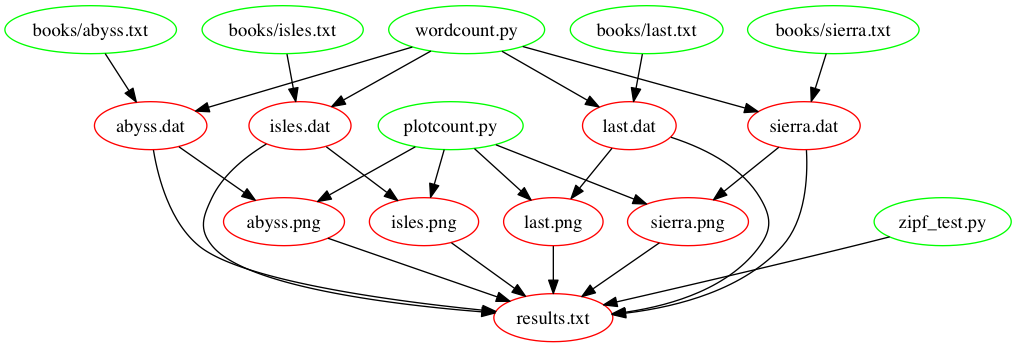
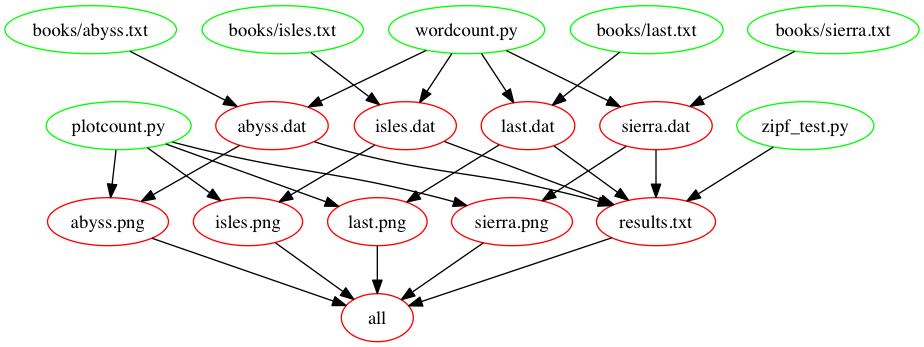
Adressing comments
* fix typos etc
* in 08-conclusion, moved PNG files as dependency of 'results.txt'
  to the 'all' target instead; this required to have the final
  make command be 'make' (or 'make all') instead of 'make results.txt'

diff --git a/solutions.md b/solutions.md
@@ -138,27 +138,42 @@ clean :
 * * *
 3. only `last.dat` and `results.txt` are recreated
 
-'Follow' the decency tree to understand the answer(s).
+'Follow' the dependency tree to understand the answer(s).
 
-> ## `workcloud.py` as dependency of `results.txt` {.challenge}
+> ## `wordcount.py` as dependency of `results.txt` {.challenge}
 >
-> What would happen if you actually added `workcloud.py` as dependency of `results.txt`, and why?
+> What would happen if you actually added `wordcount.py` as dependency of `results.txt`, and why?
 
-`workcloud.py` becomes a part of `$^`, thus the command becomes
+If you change the rule for the `results.txt` file like this:
 
-~~~ {.bash}
-python zipf_test.py abyss.dat isles.dat last.dat workcloud.py > results.txt
+~~~ {.make}
+results.txt : *.dat wordcount.py
+        python zipf_test.py $^ > $@
 ~~~
 
-This results in an error from `zipf_test.py` as it tries to parse the script:
+`wordcount.py` becomes a part of `$^`, thus the command becomes
+
+~~~ {.bash}
+python zipf_test.py abyss.dat isles.dat last.dat wordcount.py > results.txt
+~~~
+
+This results in an error from `zipf_test.py` as it tries to parse the script as if it were a `.dat` file. Try this by running:
+
+~~~ {.bash}
+$ make results.txt
+~~~
+
+You'll get
 
 ~~~ {.output}
+python zipf_test.py abyss.dat isles.dat last.dat wordcount.py > results.txt
 Traceback (most recent call last):
   File "zipf_test.py", line 19, in <module>
     counts = load_word_counts(input_file)
-  File "path/to/wordcount.py", line 35, in load_word_counts
-    with open(filename, "r") as input_fd:
-IOError: [Errno 2] No such file or directory: 'workcloud.py'
+  File "path/to/wordcount.py", line 39, in load_word_counts
+    counts.append((fields[0], int(fields[1]), float(fields[2])))
+IndexError: list index out of range
+make: *** [results.txt] Error 1
 ~~~
 
 
@@ -201,7 +216,7 @@ clean :
 > Add new rules, update existing rules, and add new macros to:
 > 
 > * Create `.png` files from `.dat` files using `plotcount.py`.
-> * Add the script and `.png` files to the archive.
+> * Add the script and `.png` files as dependencies of the `results.txt` file to make sure they are (re)created when needed.
 > * Remove all auto-generated files (`.dat`, `.png`,
 >   `results.txt`). 
 >

diff --git a/08-conclusion.md b/08-conclusion.md
@@ -32,8 +32,9 @@ papers.
 > * Remove all auto-generated files (`.dat`, `.png`,
 >   `results.txt`). 
 >
-> Finally, many Makefiles define a default [phony target](reference.html#phony-target) called `all` that will build what the Makefile has been written to build (e.g. in our case, `results.txt`). As others may assume your Makefile confirms to convention and supports an `all` target, add an `all` target to your Makefile (Hint: this rule has a single dependency but no actions).
+> Finally, many Makefiles define a default [phony target](reference.html#phony-target) called `all` that will build what the Makefile has been written to build (e.g. in our case, the `.png` files and the `results.txt` file). As others may assume your Makefile confirms to convention and supports an `all` target, add an `all` target to your Makefile (Hint: this rule has dependencies but no actions).
+> With that in place, instead of running `make results.txt`, you should now just run `make`. By default, `make` runs the first target it finds in the Makefile, in this case your new `all` target.
 
-The following figure shows the dependencies involved in building the `results.txt` target, once we've added support for images:
+The following figure shows the dependencies involved in building the `all` target, once we've added support for images:
 
 ![results.txt dependencies once images have been added](img/08-conclusion-challenge.png "results.txt dependencies once images have been added")

diff --git a/03-variables.md b/03-variables.md
@@ -53,15 +53,14 @@ Makefile but forget to rename it elsewhere.
 
 Let us set about removing some of the repetition from our Makefile.
 
-In our `results.txt` rule we duplicate the data file names and the
-archive name:
+In our `results.txt` rule we duplicate the data file names and the name of the results file name:
 
 ~~~ {.make}
 results.txt : isles.dat abyss.dat last.dat
         python zipf_test.py abyss.dat isles.dat last.dat > results.txt
 ~~~
 
-Looking at the archive name first, we can replace it in the action
+Looking at the results file name first, we can replace it in the action
 with `$@`:
 
 ~~~ {.make}
@@ -155,8 +154,7 @@ $ make results.txt
 
 As we saw, `$^` means 'all the dependencies of the current
 rule'. This works well for `results.txt` as its action
-treats all the dependencies the same - as the contents of the
-archive.
+treats all the dependencies the same - as the input for the `zipf_test.py` script.
 
 However, for some rules, we may want to treat the first dependency
 differently. For example, our rules for `.dat` use their first (and

diff --git a/04-dependencies.md b/04-dependencies.md
@@ -122,9 +122,9 @@ The whole pipeline is triggered, even the creation of the `results.txt` file! To
 > 4. all `.dat` and `results.txt` are recreated
 
 
-> ## `workcloud.py` as dependency of `results.txt` {.challenge}
+> ## `wordcount` as dependency of `results.txt` {.challenge}
 >
-> What would happen if you actually added `workcloud.py` as dependency of `results.txt`, and why?
+> What would happen if you actually added `wordcount.py` as dependency of `results.txt`, and why?
 
 We still have to add the `zipf-test.py` script as dependency to `results.txt`. Given the answer to the challenge above, we cannot use `$^` for the rule. We'll go back to using `*.dat`:
 

diff --git a/06-variables.md b/06-variables.md
@@ -53,7 +53,7 @@ used to implement our script from Python to R).
 > ## Use variables {.challenge}
 >
 > Update `Makefile` so that the `%.dat` rule
-> reference the variables `COUNT_SRC` and `COUNT_EXE`.
+> references the variables `COUNT_SRC` and `COUNT_EXE`.
 > Then do the same for the `zipf-test.py` script and the `results.txt` rule, using `ZIPF_SRC` and `ZIPF_EXE` as variable names
 
 We place variables at the top of a Makefile means they are easy to

diff --git a/01-intro.md b/01-intro.md
@@ -209,7 +209,7 @@ Another popular option is to comment out a subset of the lines in
 python plotcount.py isles.dat isles.png
 python plotcount.py abyss.dat abyss.png
 
-# This lines is also commented out because it doesn't need to be rerun.
+# This line is also commented out because it doesn't need to be rerun.
 python zipf_test.py abyss.dat isles.dat > results.txt
 ~~~
 
